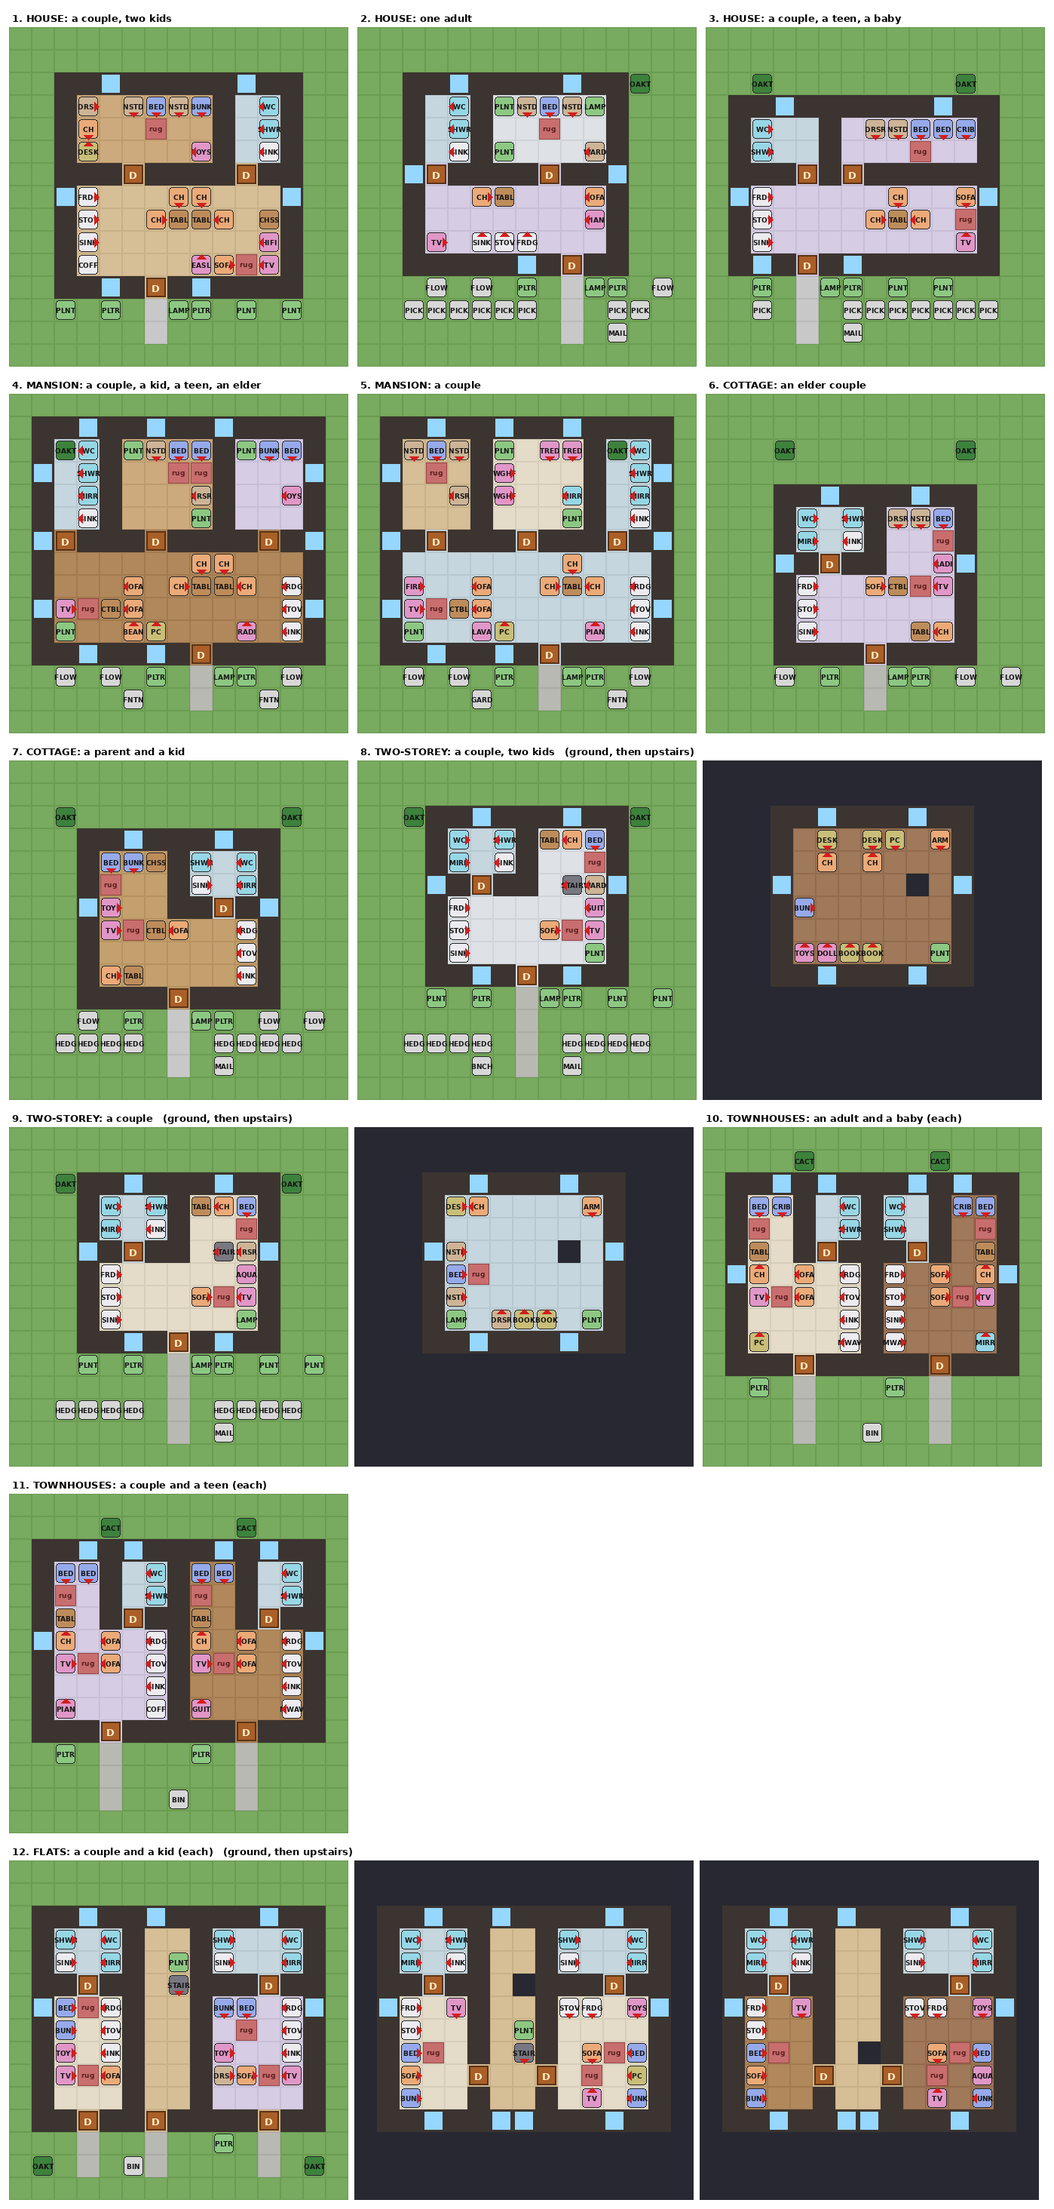
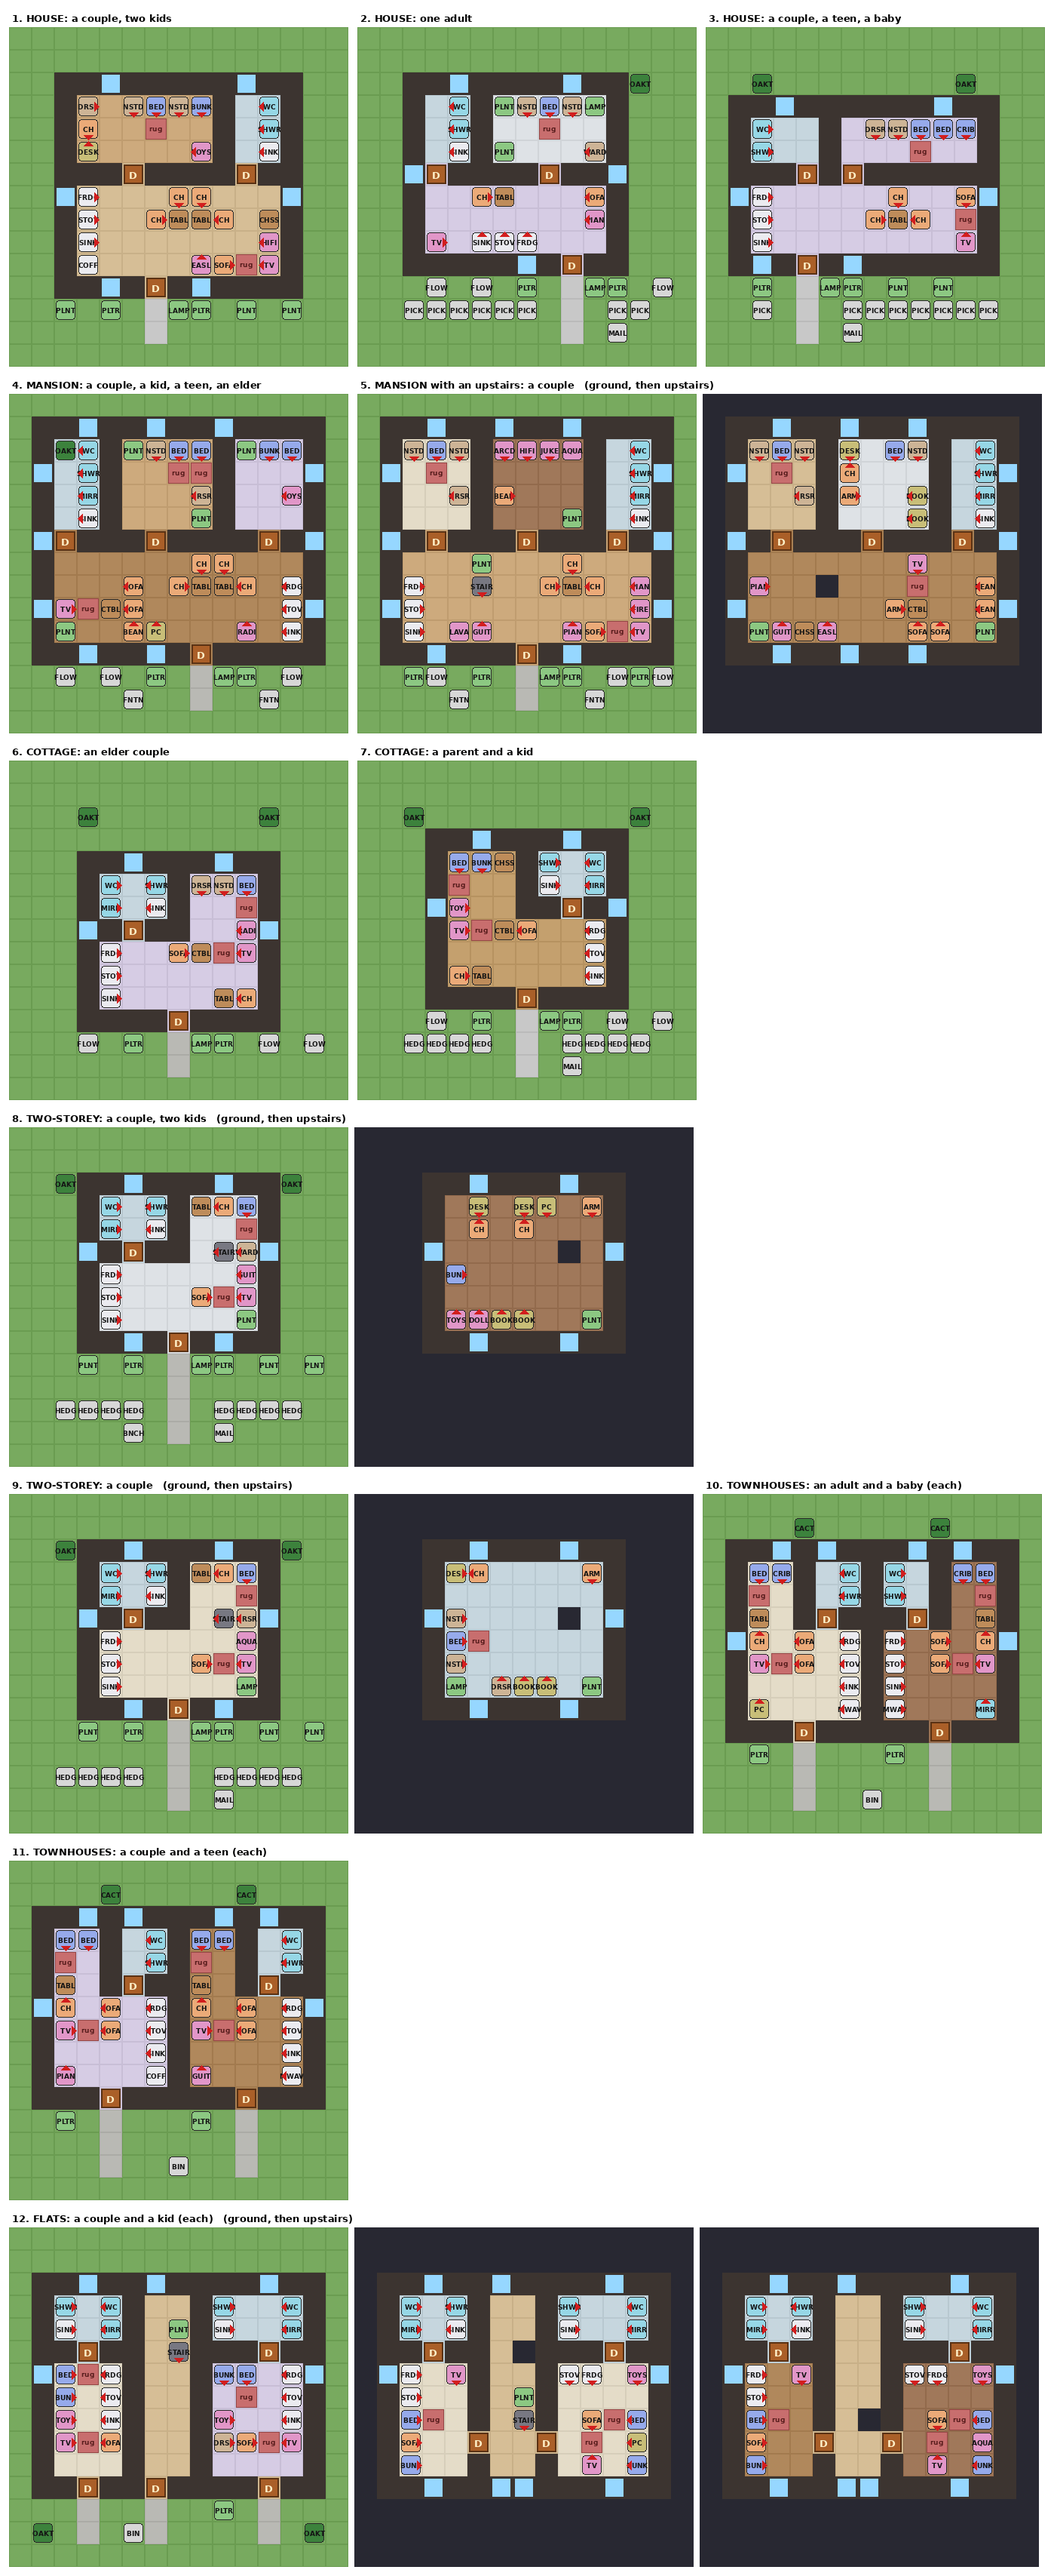
Rooms, not rows: inn/hotel rooms, test hook, picture tool, audit, shots
Claude-Session: https://claude.ai/code/session_01HmRg38Ho1eHKsYp7LCd8R6

diff --git a/src/main.c b/src/main.c
@@ -950,6 +950,9 @@ static void life_update(int steps) {
 #ifdef BORE_DC
                     cam_dist = cam_dist * 2;   // (the Dreamcast's lens is tighter)
 #endif
+#ifdef AUTO_LOTS_TOP
+                    if (tg[k].in) { cam_pitch = 940; cam_dist = AUTO_LOTS_TOP; }   // (AUTO_LOTS_TOP=dist: indoors from nearly straight above, to judge a home's rooms: docs/rooms7_dc_*.png)
+#endif
                 }
             }
             if (k_ >= 0) { for (int i = 0; i < nsims; i++) { sims[i].x = hx_ + (i % 3) * 3; sims[i].z = hz_ - (i / 3) * 3; sims[i].path_n = 0; sims[i].lvl = 0; } cam_fx = hx_; cam_fz = hz_; }

diff --git a/ports/host/lotsim/rooms.py b/ports/host/lotsim/rooms.py
@@ -14,7 +14,7 @@ HOMES = [
     (930, 69, '1,0,0,0,0,0', 'HOUSE: one adult'),
     (938, 70, '2,0,1,0,1,1', 'HOUSE: a couple, a teen, a baby'),
     (930, 70, '2,1,1,1,1,0', 'MANSION: a couple, a kid, a teen, an elder'),
-    (931, 72, '2,0,0,0,1,0', 'MANSION: a couple'),
+    (414, 505, '2,0,0,0,1,0', 'MANSION with an upstairs: a couple'),
     (931, 66, '0,0,0,2,1,0', 'COTTAGE: an elder couple'),
     (934, 66, '1,1,0,0,0,0', 'COTTAGE: a parent and a kid'),
     (689, 133, '2,2,0,0,1,0', 'TWO-STOREY: a couple, two kids'),
